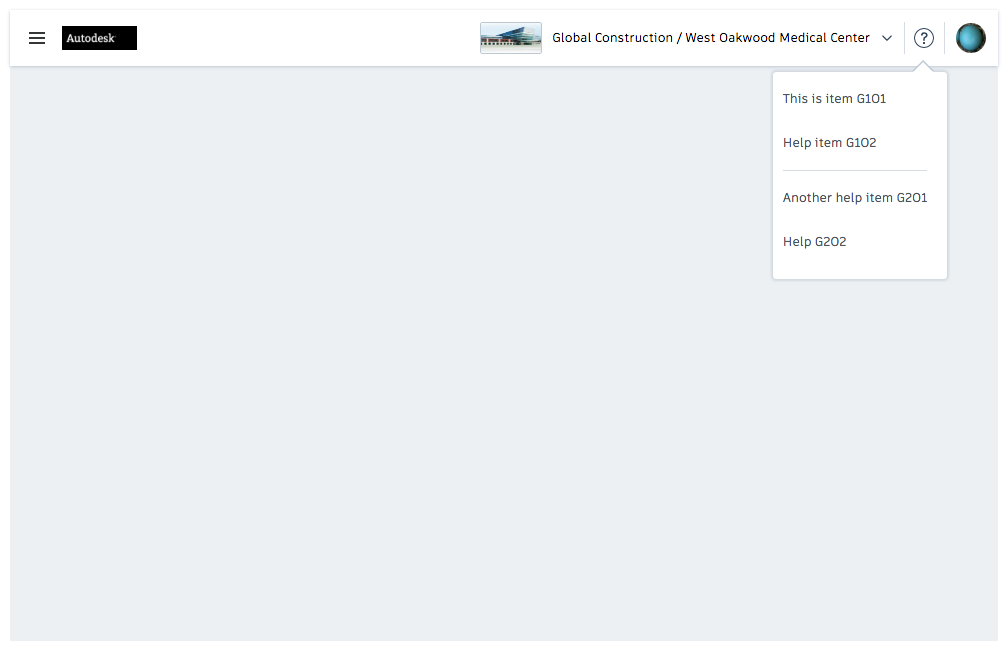
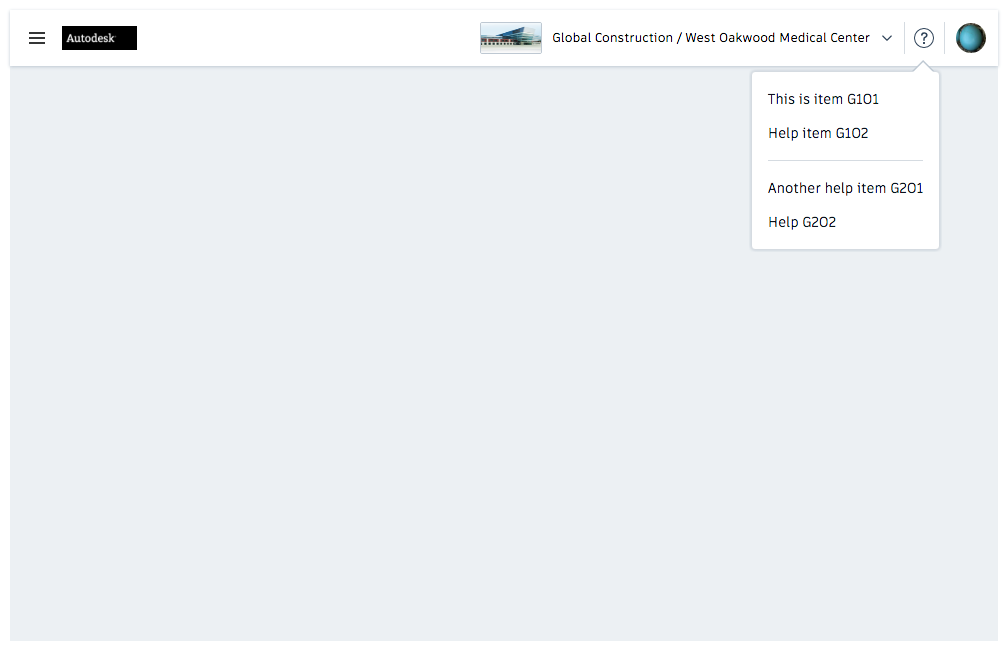
fix broken help adapter

Changed region(s): [[0.7381, 0.2765, 0.9226, 0.3994], [0.7381, 0.1229, 0.8919, 0.2458]]

diff --git a/src/implementations/vanilla/src/components/global-nav/top-nav/help/tests/gemini-help.html b/src/implementations/vanilla/src/components/global-nav/top-nav/help/tests/gemini-help.html
@@ -21,21 +21,37 @@
 
  const g1 = new help.partials.Group();
 
- const g1o1 = new help.partials.Option({ name: 'This is item G1O1', link: 'g1o1' });
+ const g1o1 = new help.partials.Option({});
+
+
  const g1o2 = new help.partials.Option({ name: 'Help item G1O2', link: 'g1o2' });
 
  help.addGroup(g1);
  g1.addOption(g1o1);
  g1.addOption(g1o2);
 
+ g1o1.setLink('g1o1');
+ g1o1.setName('This is item G1O1');
+
+ g1o2.setLink('g1o2');
+ g1o2.setName('Help item G1O2');
+
  const g2 = new help.partials.Group();
 
- const g2o1 = new help.partials.Option({ name: 'Another help item G2O1', link: 'g2o1' });
- const g2o2 = new help.partials.Option({ name: 'Help G2O2', link: 'g2o2' });
+ const g2o1 = new help.partials.Option({});
+ const g2o2 = new help.partials.Option({});
 
  help.addGroup(g2);
  g2.addOption(g2o1);
  g2.addOption(g2o2);
+
+ g2o1.setLink('g2o1');
+ g2o1.setName('Another help item G2O1');
+
+ g2o2.setLink('g2o2');
+ g2o2.setName('Help G2O2');
+
+
 
  help.open();
 

diff --git a/src/implementations/vanilla/src/components/global-nav/top-nav/help/option/option.scss b/src/implementations/vanilla/src/components/global-nav/top-nav/help/option/option.scss
@@ -3,18 +3,28 @@
 
 .hig__global-nav__help__option {
   flex: 1 1 auto;
-  margin: 0 0 10px 0;
+  margin: 0 0 20px 0;
 }
 
 .hig__global-nav__help__option__link {
-  color: color(hig-gray-20);
+  color: color(hig-gray-10);
   cursor: pointer;
   font-family: ArtifaktElement;
-  font-size: 13px;
-  line-height: 34px;
+  font-size: 14px;
+  line-height: 14px;
   text-decoration: none;
   text-overflow: ellipsis;
   white-space: nowrap;
+
+  margin: 0 0 20px 0;
+
+  &:first-child {
+    padding-top: 10px
+  }
+
+  &:last-child {
+    margin-bottom: 0px;
+  }
 
   &:hover {
     color: color(hig-blue-30);

diff --git a/src/implementations/vanilla/src/components/global-nav/top-nav/help/group/group.scss b/src/implementations/vanilla/src/components/global-nav/top-nav/help/group/group.scss
@@ -3,10 +3,15 @@
 
 .hig__global-nav__help__group {
   border-bottom: 1px solid color(hig-gray-50);
-  margin: 0 10px 10px 0;
+  margin: 0 6px 10px 6px;
+  display: flex;
+  flex-direction: column;
+  padding-bottom: 20px;
+
 
   &:last-child {
     border-bottom: 0;
     margin-bottom: 0;
+    padding-bottom: 10px;
   }
 }

diff --git a/src/implementations/react/src/playground/index.js b/src/implementations/react/src/playground/index.js
@@ -101,7 +101,7 @@ class Playground extends React.Component {
           options: [
             {
               name: 'group 1, option 1',
-              onClick: function() { console.log('g1 o1 clicked'); }
+              link: "#" 
             },
             {
               name: 'group 1, option 2',

diff --git a/src/implementations/vanilla/src/components/global-nav/top-nav/help/option/option.js b/src/implementations/vanilla/src/components/global-nav/top-nav/help/option/option.js
@@ -20,11 +20,12 @@ class Option extends Core {
   }
 
   setLink(link) {
-    this.link = link;
+    this.el.setAttribute('href', link);
   }
 
   setName(name) {
-    this.name = name;
+    this.el.setAttribute('title', name);
+    this.el.textContent = name;
   }
 }
 

diff --git a/src/implementations/react/src/elements/components/GlobalNav/GlobalNav.js b/src/implementations/react/src/elements/components/GlobalNav/GlobalNav.js
@@ -1,4 +1,4 @@
-import React, { Component } from 'react';
+  import React, { Component } from 'react';
 import PropTypes from 'prop-types';
 
 import GlobalNavAdapter from '../../../adapters/GlobalNav/GlobalNavAdapter';

diff --git a/src/implementations/vanilla/src/components/global-nav/top-nav/help/option/option.html b/src/implementations/vanilla/src/components/global-nav/top-nav/help/option/option.html
@@ -1,3 +1,1 @@
-<div class="hig__global-nav__help__option">
-  <a class="hig__global-nav__help__option__link" {{#link}}href="{{link}}"{{/link}}>{{ name }}</a>
-</div>
+<a class="hig__global-nav__help__option__link"></a>

diff --git a/src/implementations/vanilla/src/components/global-nav/top-nav/help/help.scss b/src/implementations/vanilla/src/components/global-nav/top-nav/help/help.scss
@@ -4,6 +4,7 @@
 
   .hig__flyout__panel {
     width: auto;
+    margin-right: 8px;
   }
 
   .hig__flyout__container {
